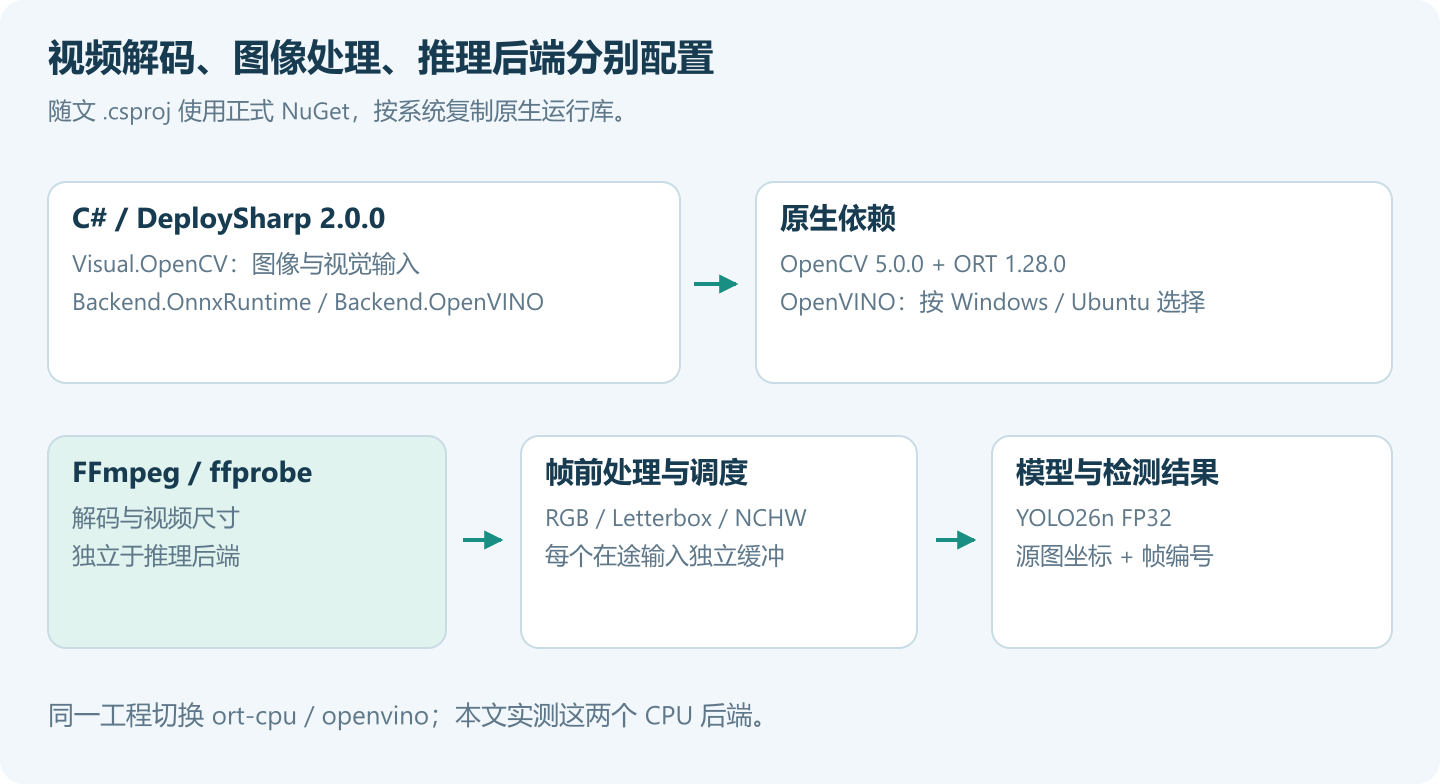
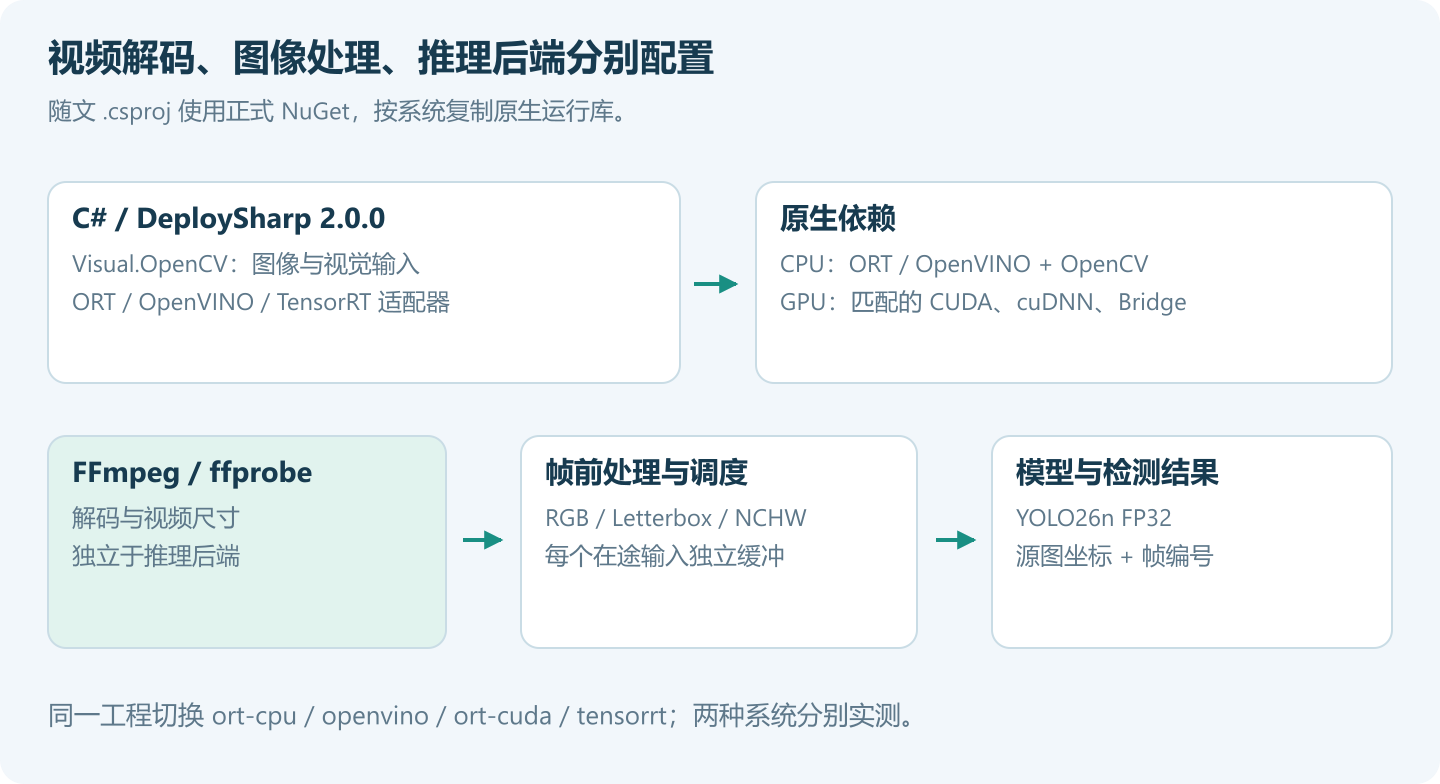
docs(blog): add CUDA and TensorRT video benchmarks on Windows and Ubuntu

Changed region(s): [[0.5312, 0.3061, 0.8438, 0.398], [0.3125, 0.8878, 0.625, 0.949], [0.0312, 0.3673, 0.375, 0.398]]

diff --git a/docs/blog/2.0.0/2026-10/examples/08-batch-video-inference/Program.cs b/docs/blog/2.0.0/2026-10/examples/08-batch-video-inference/Program.cs
@@ -4,6 +4,7 @@ using System.Text.Json;
 using JYPPX.DeploySharp;
 using JYPPX.DeploySharp.Backends.OnnxRuntime;
 using JYPPX.DeploySharp.Backends.OpenVINO;
+using JYPPX.DeploySharp.Backends.TensorRT;
 using JYPPX.DeploySharp.Models;
 using JYPPX.DeploySharp.Registry;
 using JYPPX.DeploySharp.Results.Vision;
@@ -28,6 +29,10 @@ string ffmpeg = Option("--ffmpeg", "ffmpeg"), ffprobe = Option("--ffprobe", "ffp
 int frameLimit = Number("--frames", 48, 1000000), window = Number("--window", 12, 64);
 int repeats = Number("--repeats", 3, 100), threads = Number("--threads", 2, 128);
 int batch = Number("--batch", 4, 16);
+int trtApi = Number("--trt-api", OperatingSystem.IsWindows() ? 10 : 11, 11);
+if (trtApi is not (10 or 11)) throw new ArgumentException("--trt-api must be 10 or 11, matching the installed native runtime and bridge.");
+string enginePath = Path.GetFullPath(Option("--engine",
+    Path.ChangeExtension(modelPath, $".{(OperatingSystem.IsWindows() ? "win" : "linux")}-trt{trtApi}-fp32-b{batch}.engine")));
 if (!File.Exists(modelPath)) throw new FileNotFoundException("Download the ONNX model first.", modelPath);
 using var stop = new CancellationTokenSource();
 if (args.Contains("--cancel-after")) stop.CancelAfter(Number("--cancel-after", 1000, 600000));
@@ -60,10 +65,18 @@ async Task Execute(CancellationToken token)
     using var backends = new BackendRegistry();
     BackendId backendId;
     string device;
+    string format = "onnx", loadPath = modelPath;
     if (backend == "ort-cpu")
     {
         backends.UseOnnxRuntime(new OnnxRuntimeOptions(intraOpThreads: threads, interOpThreads: 1));
         backendId = OnnxRuntimeBackendProvider.BackendId; device = "cpu";
+    }
+    else if (backend == "ort-cuda")
+    {
+        backends.UseOnnxRuntime(new OnnxRuntimeOptions(intraOpThreads: threads, interOpThreads: 1,
+            executionProvider: OnnxRuntimeExecutionProvider.Cuda,
+            cudaProviderOptions: new Dictionary<string, string> { ["use_tf32"] = "0" }));
+        backendId = OnnxRuntimeBackendProvider.BackendId; device = "cuda";
     }
     else if (backend == "openvino")
     {
@@ -71,11 +84,30 @@ async Task Execute(CancellationToken token)
             streams: 1, inferenceThreads: threads, requestCount: 1));
         backendId = OpenVinoBackendProvider.BackendId; device = "CPU";
     }
-    else throw new ArgumentException("Use --backend ort-cpu or openvino.");
+    else if (backend == "tensorrt")
+    {
+        var api = (TensorRtApiVersion)trtApi;
+        if (!File.Exists(enginePath))
+        {
+            Directory.CreateDirectory(Path.GetDirectoryName(enginePath)!);
+            Console.WriteLine("Building local FP32 engine (outside measurements): " + enginePath);
+            new TensorRtOnnxEngineBuilder().Build(new ModelArtifact(new ModelId("blog/yolo26-video"), "onnx", modelPath),
+                enginePath, new TensorRtOnnxEngineBuildOptions(apiVersion: api,
+                    precision: trtApi == 10 ? TensorRtOnnxEnginePrecision.Float32 : TensorRtOnnxEnginePrecision.RuntimeDefault,
+                    disableTf32: true, optimizationLevel: 3,
+                    inputProfiles: dynamicBatch ? new[] { new TensorRtOnnxInputProfile("images",
+                        new TensorShape(1, 3, 640, 640), new TensorShape(batch, 3, 640, 640),
+                        new TensorShape(batch, 3, 640, 640)) } : null));
+        }
+        backends.UseTensorRT(new TensorRtBackendOptions(api));
+        backendId = TensorRtBackendProvider.BackendId; device = "cuda";
+        format = "tensorrt-engine"; loadPath = enginePath;
+    }
+    else throw new ArgumentException("Use --backend ort-cpu, ort-cuda, openvino or tensorrt.");
 
     var id = new ModelId("blog/yolo26-video");
     var size = new VisualSize(640, 640);
-    var profile = new VisualModelProfile("blog.yolo26.video", id, VisualTaskId.ObjectDetection, "1", "onnx",
+    var profile = new VisualModelProfile("blog.yolo26.video", id, VisualTaskId.ObjectDetection, "1", format,
         new VisualInputBinding("images", TensorElementType.Float32, new TensorShape(dynamicBatch ? -1 : 1, 3, 640, 640),
             VisualTensorLayout.Nchw, maximumBatch: dynamicBatch ? batch : 1),
         new[] { new VisualOutputBinding("output0", TensorElementType.Float32, new TensorShape(dynamicBatch ? -1 : 1, -1, 6)) },
@@ -86,13 +118,14 @@ async Task Execute(CancellationToken token)
             VisualNormalizationOptions.Scale(255f), paddingColor: new VisualRgbColor(114, 114, 114)));
     var profiles = new VisualProfileRegistry(); profiles.Register(profile); profiles.Freeze();
     var request = new BackendRequest(BackendCapabilities.TensorInference, backendId, device);
-    var selection = profiles.Select(new ModelArtifact(id, "onnx", modelPath), backends, request, VisualTaskId.ObjectDetection);
+    var selection = profiles.Select(new ModelArtifact(id, format, loadPath), backends, request, VisualTaskId.ObjectDetection);
     var modes = new List<Mode> { new("serial", 1, 0, 1), new("pool-2", 2, 0, 1),
         new("prefetch-1", 1, 2, 1), new("prefetch-2", 2, 2, 1) };
     if (dynamicBatch) modes.Add(new("batch-" + batch, 1, 0, batch));
     else Console.WriteLine("True model Batch skipped: this ONNX has fixed batch=1. Session pool and prefetch remain available.");
 
     var summaries = new List<object>();
+    string[] gpuBefore = device == "cuda" ? GpuSnapshot() : Array.Empty<string>();
     IReadOnlyList<FrameResult>? reference = null;
     foreach (Mode mode in modes)
     {
@@ -122,12 +155,17 @@ async Task Execute(CancellationToken token)
             totalMs = times, medianTotalMs = median, fpsAtMedianTotal = frameLimit * 1000 / median,
             windowP50Ms = Percentile(windowTimes, .5), windowP95Ms = Percentile(windowTimes, .95),
             frames = last.Count, detections = last.Sum(x => x.Detections.Count), exactWithSerial = exact, parity,
-            peakPreparedInputs = preparer.Peak, activeInputsAfterRun = preparer.Active });
-        if (mode.Batch == 1 && !exact) throw new InvalidDataException("Session/prefetch results differ from serial. Inspect frames.json before using the timings.");
-        if (!parity.Equivalent) throw new InvalidDataException("Batch results exceed the stated parity tolerances. Inspect frames.json.");
+            peakPreparedInputs = preparer.Peak, activeInputsAfterRun = preparer.Active,
+            gpuAfterMode = device == "cuda" ? GpuSnapshot() : Array.Empty<string>() });
+        if (!parity.Equivalent) throw new InvalidDataException("Results exceed the stated parity tolerances. Inspect frames.json before using the timings.");
     }
     var report = new { createdAt = DateTimeOffset.Now, backend, device, threadsPerSession = threads,
-        model = Path.GetFileName(modelPath), dynamicBatch, frameLimit, window, repeats, warmupWindows = 2,
+        model = Path.GetFileName(modelPath), format, artifact = Path.GetFileName(loadPath), dynamicBatch, frameLimit, window, repeats, warmupWindows = 2,
+        precision = backend is "ort-cuda" or "tensorrt" ? "FP32; TF32 disabled" : "Backend default",
+        tensorRtApi = backend == "tensorrt" ? trtApi : (int?)null,
+        tensorRtBatchProfile = backend == "tensorrt" && dynamicBatch ? new { minimum = 1, optimum = batch, maximum = batch } : null,
+        ortNativeVersion = Ort.OrtEnv.Instance().GetVersionString(),
+        ortAvailableProviders = Ort.OrtEnv.Instance().GetAvailableProviders(), gpuBefore,
         protocol = "Timed: raw BGR pipe reads (including decoder wait), input preparation, scheduler, inference, decode and result projection. Excluded: ffprobe/process creation, model load, warmup, drawing, JSON writes. FFmpeg uses 1 decoder thread. Window percentiles are completion times, not single-frame latency.",
         environment = new { os = RuntimeInformation.OSDescription, architecture = RuntimeInformation.ProcessArchitecture.ToString(),
             runtime = RuntimeInformation.FrameworkDescription, logicalProcessors = Environment.ProcessorCount }, modes = summaries };
@@ -235,6 +273,22 @@ static void SavePreview(Frame frame, DetectionResult result, string path)
     if (!ImageCodecs.ImWrite(path, image)) throw new IOException("Cannot save " + path);
 }
 static JsonSerializerOptions JsonOptions() => new() { WriteIndented = true, PropertyNamingPolicy = JsonNamingPolicy.CamelCase };
+static string[] GpuSnapshot()
+{
+    try
+    {
+        var start = new ProcessStartInfo("nvidia-smi") { RedirectStandardOutput = true, RedirectStandardError = true, UseShellExecute = false };
+        start.ArgumentList.Add("--query-gpu=name,driver_version,pstate,clocks.current.graphics,clocks.current.memory,power.draw,memory.used,utilization.gpu");
+        start.ArgumentList.Add("--format=csv,noheader");
+        using var process = Process.Start(start)!;
+        Task<string> stdout = process.StandardOutput.ReadToEndAsync(), stderr = process.StandardError.ReadToEndAsync();
+        if (!process.WaitForExit(3000)) { process.Kill(entireProcessTree: true); process.WaitForExit(); return new[] { "nvidia-smi timed out" }; }
+        return (process.ExitCode == 0 ? stdout.GetAwaiter().GetResult() : stderr.GetAwaiter().GetResult())
+            .Split('\n', StringSplitOptions.RemoveEmptyEntries | StringSplitOptions.TrimEntries);
+    }
+    catch (Exception e) when (e is System.ComponentModel.Win32Exception or InvalidOperationException)
+    { return new[] { "GPU telemetry unavailable: " + e.Message }; }
+}
 static double Percentile(IEnumerable<double> values, double p) { double[] sorted = values.Order().ToArray(); return sorted[(int)Math.Ceiling(p * sorted.Length) - 1]; }
 static Parity Compare(IReadOnlyList<FrameResult> baseline, IReadOnlyList<FrameResult> actual)
 {

diff --git a/docs/blog/2.0.0/2026-10/examples/08-batch-video-inference/README.md b/docs/blog/2.0.0/2026-10/examples/08-batch-video-inference/README.md
@@ -26,15 +26,51 @@ export LD_LIBRARY_PATH="$PWD/bin/Release/net10.0/native/opencv:$PWD/bin/Release/
 dotnet bin/Release/net10.0/BatchVideo.dll --model models/yolo26n-dynamic.onnx --backend ort-cpu
 ```
 
+## GPU 后端
+
+ORT CUDA 与 TensorRT 使用相同的五种模式、视频和前后处理。随文工程已引用 TensorRT 适配器，并按 Windows TRT 10.11 / Linux TRT 11.0 选择 Bridge；CUDA 12.9、cuDNN 9.22 和 TensorRT 本体由设备环境提供。
+
+对于 CUDA 12，下载官方 ORT `1.28.0` 的 `gpu_cuda12` 发行包，解压到 `runtime/`。指定其完整 `lib` 目录，发布到独立的 `bin/cuda12`，避免混入旧的 CPU/CUDA 13 原生文件。Windows：
+
+```powershell
+$ortLib = (Resolve-Path 'runtime/onnxruntime-win-x64-gpu_cuda12-1.28.0/lib').Path
+dotnet publish -c Release "-p:OrtCuda12NativeDir=$ortLib" -o bin/cuda12
+$env:JYPPX_TENSORRT_ROOT = '你的 TensorRT 10.11 安装目录'
+$env:JYPPX_CUDA_ROOT = '你的 CUDA 12.9 安装目录'
+$env:JYPPX_CUDNN_ROOT = '你的 cuDNN 9.22 安装目录'
+$env:PATH = "$env:JYPPX_TENSORRT_ROOT\lib;$env:JYPPX_CUDA_ROOT\bin;$env:JYPPX_CUDNN_ROOT\bin;$env:PATH"
+dotnet bin/cuda12/BatchVideo.dll --model models/yolo26n-dynamic.onnx --backend ort-cuda --output results/ort-cuda
+dotnet bin/cuda12/BatchVideo.dll --model models/yolo26n-dynamic.onnx --backend tensorrt --trt-api 10 --output results/tensorrt
+```
+
+Ubuntu 22.04，官方 `.tgz` 解压后：
+
+```bash
+dotnet publish -c Release \
+  -p:OrtCuda12NativeDir="$PWD/runtime/onnxruntime-linux-x64-gpu_cuda12-1.28.0/lib" \
+  -o bin/cuda12
+export LD_LIBRARY_PATH="$PWD/bin/cuda12:$PWD/bin/cuda12/native/opencv:$PWD/bin/cuda12/native/openvino:/usr/local/cuda-12.9/lib64:${LD_LIBRARY_PATH:-}"
+dotnet bin/cuda12/BatchVideo.dll --model models/yolo26n-dynamic.onnx --backend ort-cuda --output results/ort-cuda
+dotnet bin/cuda12/BatchVideo.dll --model models/yolo26n-dynamic.onnx --backend tensorrt --trt-api 11 --output results/tensorrt
+```
+
+官方下载：`https://github.com/microsoft/onnxruntime/releases/tag/v1.28.0`。如果目标机使用 CUDA 13，可省略 `OrtCuda12NativeDir` 并传 `-p:UseCuda=true` 选择 GPU NuGet；这不属于本文实测环境。
+
+TensorRT 首次运行在计时外从 ONNX 构建本机 FP32 Engine，关闭 TF32，动态 Batch 的 min/opt/max 为 1/4/4，输入空间固定 640×640。`--batch` 会同步改变 opt/max。更换模型、设备、原生版本或 Batch 上限时，通过 `--engine` 指定新路径重新构建。`--trt-api` 必须与原生环境及 Bridge 一致。
+
+本工程还使用 ORT 在计时外检查 ONNX 端口，因此 TensorRT 模式也保留一种 ORT 原生来源。这不代表 TensorRT 推理由 ORT 执行。前处理、输出解码仍在 CPU，预取是应用层调度。
+
 | 参数 | 默认值 | 含义 |
 | --- | --- | --- |
 | `--model` | `models/yolo26n.onnx` | YOLO26n end-to-end FP32 ONNX，`images → output0` |
 | `--video` | `videos/vtest.avi` | 文件视频；不使用实时播放节奏 |
-| `--backend` | `ort-cpu` | `ort-cpu` / `openvino` |
+| `--backend` | `ort-cpu` | `ort-cpu` / `openvino` / `ort-cuda` / `tensorrt` |
 | `--threads` | `2` | 每个独立 Session 的 CPU 推理线程数 |
 | `--frames` | `48` | 每轮处理的视频前 N 帧 |
 | `--window` | `12` | 同时保留的已解码帧数上限，最大 64 |
 | `--batch` | `4` | 真 Batch 的最大帧数，要求动态模型，最大 16 |
+| `--trt-api` | Windows `10`，Linux `11` | 与所装 TensorRT 和 Bridge 匹配的主版本 |
+| `--engine` | ONNX 同目录，名称包含系统/API/FP32/Batch 上限 | TensorRT 本机 Engine 路径，存在时复用 |
 | `--repeats` | `3` | 每种模式的完整测量轮数 |
 | `--output` | `results/<backend>` | JSON 和四张结果预览的目录 |
 | `--ffmpeg` / `--ffprobe` | 同名命令 | 自定义可执行文件路径 |
@@ -49,6 +85,8 @@ dotnet bin/Release/net10.0/BatchVideo.dll --model models/yolo26n-dynamic.onnx --
 
 计时包含原始 BGR 管道读取等待、前处理、调度、推理、解码和结果投影，排除模型加载、ffprobe/进程创建、预热、绘图和文件保存。报告中的窗口 P50/P95 是窗口完成时间，不是单帧延迟；三轮 48 帧仅用于教程演示。
 
-Session/预取结果与同后端串行结果逐值对照；Batch 用同帧同类别最高 IoU 匹配，要求无未配对项、最低 IoU≥0.99、最大分数差≤0.001。不以这种一致性检查代替标注集准确率评测。
+所有模式记录与同后端串行结果是否逐值相同，并用同帧同类别最高 IoU 匹配，要求无未配对项、最低 IoU≥0.99、最大分数差≤0.001。GPU 的微小浮点差异以容差判断，逐值相等指标不伪造为 true。不以这种一致性检查代替标注集准确率评测。
+
+GPU 报告还记录 FP32/TF32 策略、TensorRT Batch 范围、ORT 原生版本与可用 provider，以及计时外采集的 `nvidia-smi` 快照。快照包含 GPU/驱动、P-state、核心/显存频率、功耗、显存占用和利用率；它不是连续的单帧性能剖析。
 
 内存有界于当前帧窗口、在途输入与当前程序积累的结果元数据。极长视频应将每窗口的结果写入数据库/日志或交给消费者，避免一直保留 `List<FrameResult>`；本例限制像素和模型张量，不宣称结果集合也与视频长度无关。

diff --git a/docs/blog/2.0.0/README.md b/docs/blog/2.0.0/README.md
@@ -15,13 +15,13 @@
 | 05 | [一套 C# 接口，解锁四类视觉任务：DeploySharp 分类、分割、关键点与旋转框实战](2026-10/2026-10-29-05-visual-multitask.md) | 主稿完成：Windows ORT CPU 四任务实跑，配置预处理与结果类型，输出源图叠色、二值掩码、有效骨架、旋转四边形与 JSON |
 | 06 | [让文档不止于文字：DeploySharp + PP-Structure，打通版面分析与表格重建](2026-10/2026-10-29-06-paddle-structure.md) | 主稿完成：Windows/Ubuntu 的 ORT、OpenVINO CPU 跑通多栏页面区域 DET+REC、有线表格分类、单元格检测、SLANeXt 对齐与 HTML 填充，附共享原图输入适配器、Linux 运行命令和真实结果 |
 | 07 | [不止于内置模型：用 DeploySharp 接管新模型的前处理、推理与结果解码](2026-10/2026-10-29-07-custom-visual.md) | 主稿完成：单模型六输出解码、RGB/Letterbox/归一化、DFL、NMS、自定义结果；Windows/Ubuntu 的 ORT、OpenVINO CPU 实跑 |
-| 08 | [从单帧到并发流水线：DeploySharp 批量与视频推理实战](2026-10/2026-10-30-08-batch-video-inference.md) | 主稿完成：真实视频、有界窗口、动态 Batch、独立 Session 池、异步预取与缓冲租约；Windows/Ubuntu 的 ORT、OpenVINO CPU 共 20 组调度配置，逐帧一致性、吞吐和窗口耗时对照 |
+| 08 | [从单帧到并发流水线：DeploySharp 批量与视频推理实战](2026-10/2026-10-30-08-batch-video-inference.md) | 主稿完成：真实视频、有界窗口、动态 Batch、独立 Session 池、异步预取与缓冲租约；Windows/Ubuntu 的 ORT CPU、OpenVINO CPU、ORT CUDA、TensorRT 共 40 组调度配置，附 GPU 安装、动态 Engine、逐帧一致性、吞吐和窗口耗时对照 |
 | 09 | DeploySharp ROI 实战：配置检测区域、过滤结果与还原坐标 | 拟写：保存区域配置，执行区域任务并将结果映射到原图 |
 | 10 | 使用 DeploySharp 处理大图：滑动窗口、重叠切片与结果合并 | 拟写：规划切片、完成检测、合并跨窗口重复结果并检查边缘目标 |
 | 11 | DeploySharp TensorRT 优化实战：Engine、CUDA 前后处理与数据复用 | 拟写：在支持的模型路径上构建 Engine、减少传输并测量实际收益 |
 | 12 | DeploySharp 2.0.0 性能实测：不同设备和后端应该怎样比较 | 拟写：阅读和复现具名设备结果，区分延迟、吞吐与完整流水线时间 |
 
-随文源代码位于 `2026-10/examples/`，配图位于 `2026-10/assets/`。第二篇包含 Windows YOLO26 五条执行路径，第三篇包含 Ubuntu v5 Mobile 四后端完整 OCR，第八篇在 Windows/Ubuntu 对照两种 CPU 后端的五种连续帧调度方式。具体设备、模型和输出以各篇实测章节为准。
+随文源代码位于 `2026-10/examples/`，配图位于 `2026-10/assets/`。第二篇包含 Windows YOLO26 五条执行路径，第三篇包含 Ubuntu v5 Mobile 四后端完整 OCR，第八篇在 Windows/Ubuntu 对照四条 CPU/GPU 执行路径的五种连续帧调度方式。具体设备、模型和输出以各篇实测章节为准。
 
 ## 多模型应用实战
 

diff --git a/docs/blog/README.md b/docs/blog/README.md
@@ -4,7 +4,7 @@
 
 | 基于版本 | 系列入口 | 当前状态 |
 | --- | --- | --- |
-| 2.0.0 | [基础教程](2.0.0/README.md) | 01—08 已成稿：发布介绍、YOLO26、OCR、部署、视觉多任务、PP-Structure、自定义模型、批量与视频并发；附正式 NuGet 可运行工程，尚未向博客平台发表 |
+| 2.0.0 | [基础教程](2.0.0/README.md) | 01—08 已成稿：发布介绍、YOLO26、OCR、部署、视觉多任务、PP-Structure、自定义模型、批量与视频并发；附正式 NuGet 可运行工程，第 08 篇含 Windows/Ubuntu 四条 CPU/GPU 路径共 40 组对照，尚未向博客平台发表 |
 | 2.0.0 | [多模型应用实战](2.0.0/applications/README.md) | 01—03 已成稿：智能巡检台、智能文档工作台、智能素材工厂；Windows/Ubuntu 实跑 ORT、OpenVINO CPU，文档公式固定 ORT CPU，尚未发表 |
 
 ## 目录与命名
